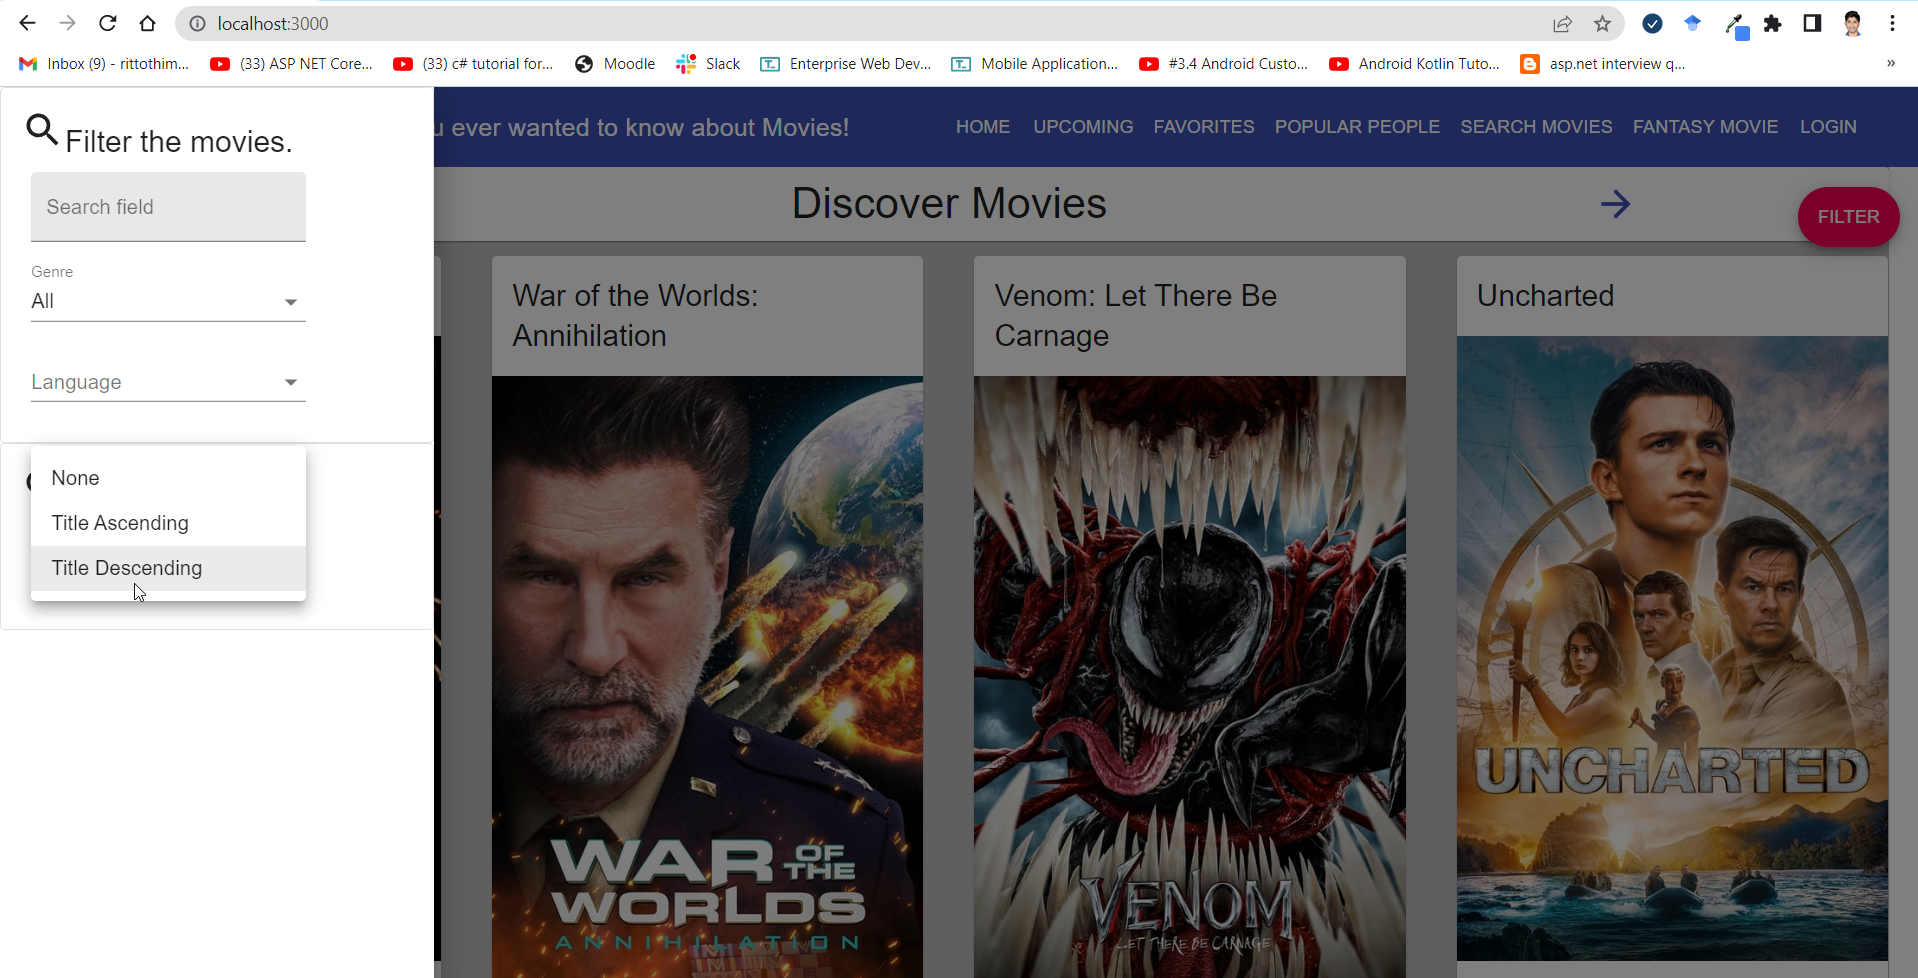
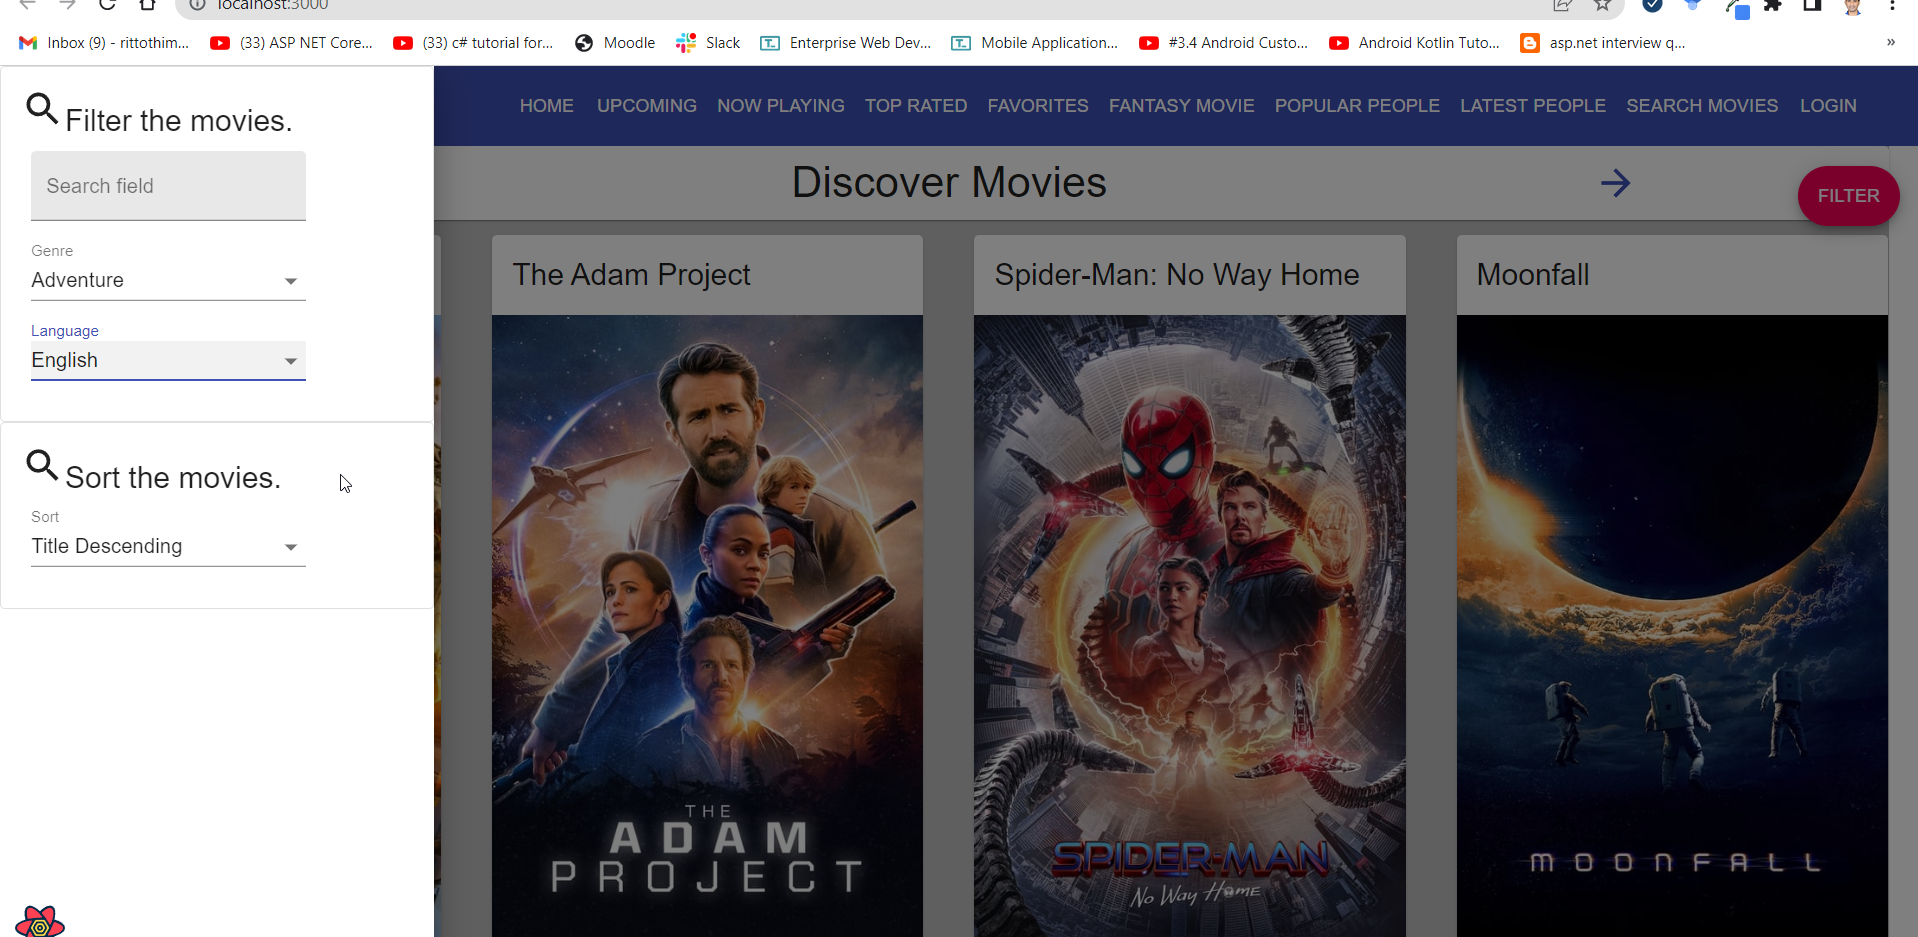
moviesApp : readme change

diff --git a/README.md b/README.md
@@ -18,6 +18,7 @@ __Name:__ [Ritto Thimothy]
 + Fantasy Movie Listing
 + Fantasy Movie Details
 + Login & Sign Up (Authentication based public and private page)
++ Sorting & Filtering
 + Pagination
 
 ## Feature Design.
@@ -151,9 +152,6 @@ __Pagination feature.__
 ![image](https://github.com/rittos/moviesApp/blob/develop/images/peoples_pagination.png)
 
 > Pagination added across multiple screen including movie listing, people listing and movie search form page.
-
-__URL:__ /
-
 
 ## Storybook.
 ![image](https://github.com/rittos/moviesApp/blob/develop/images/story_overview.png)
